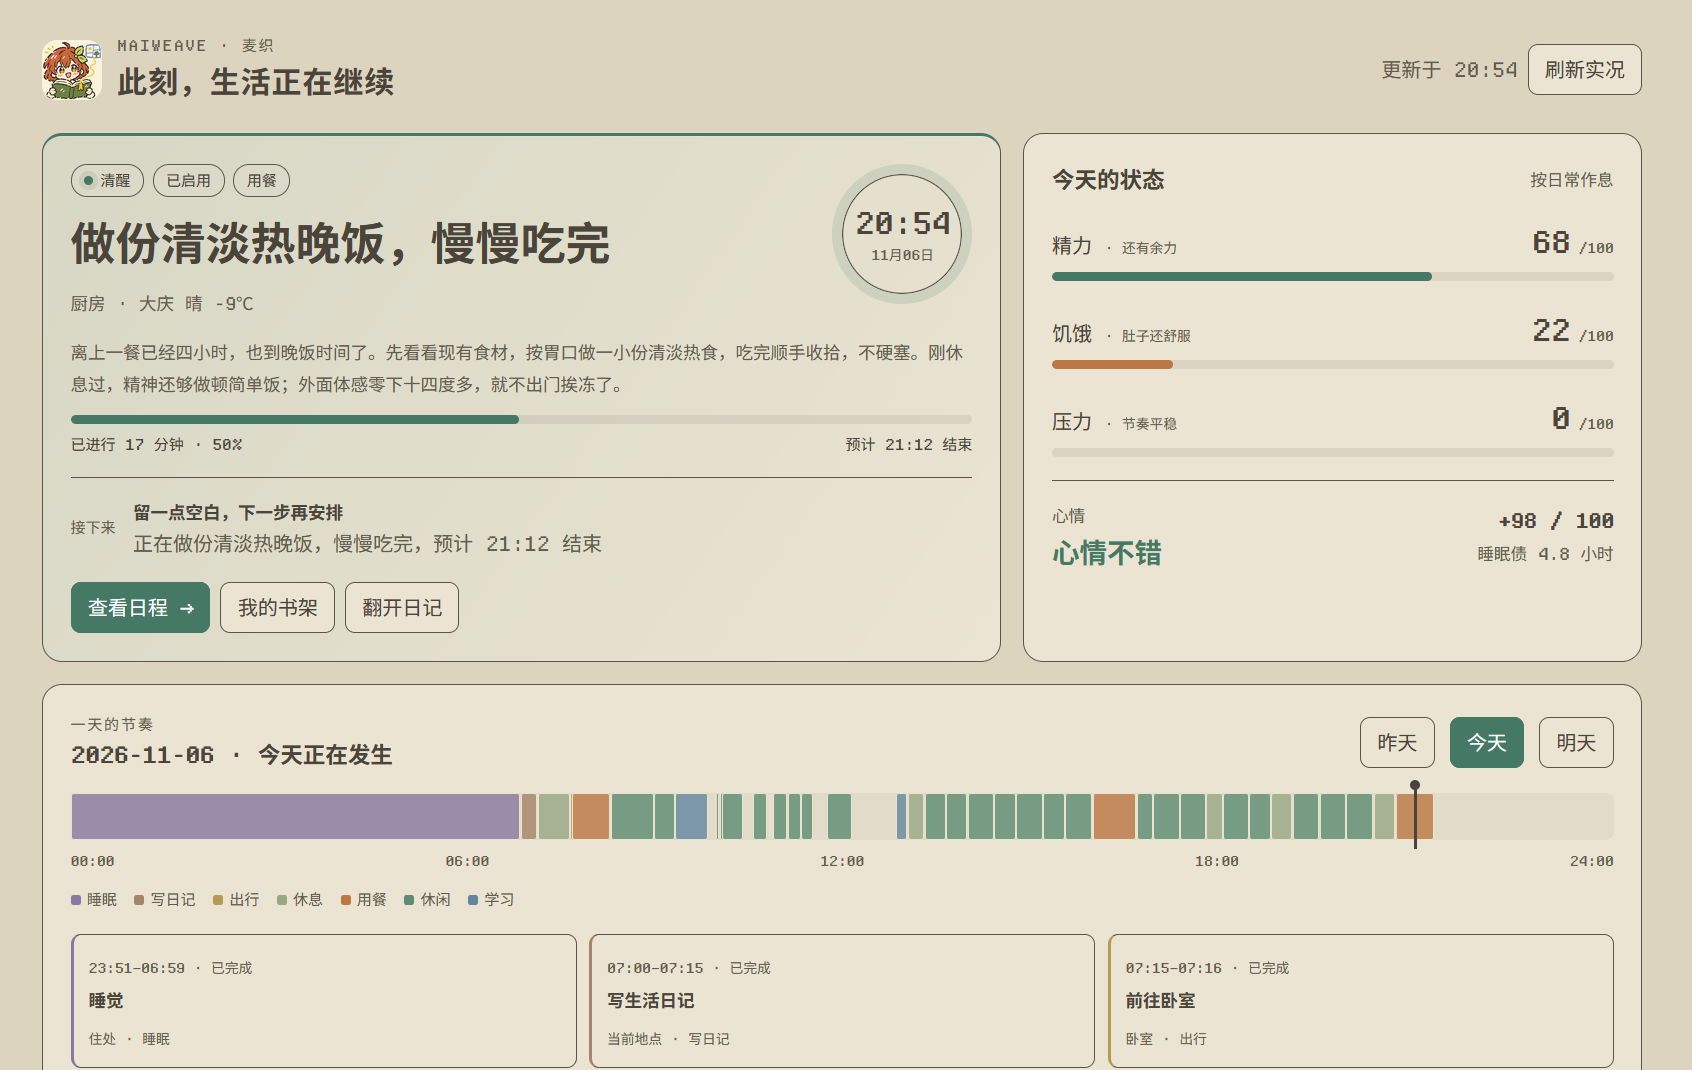
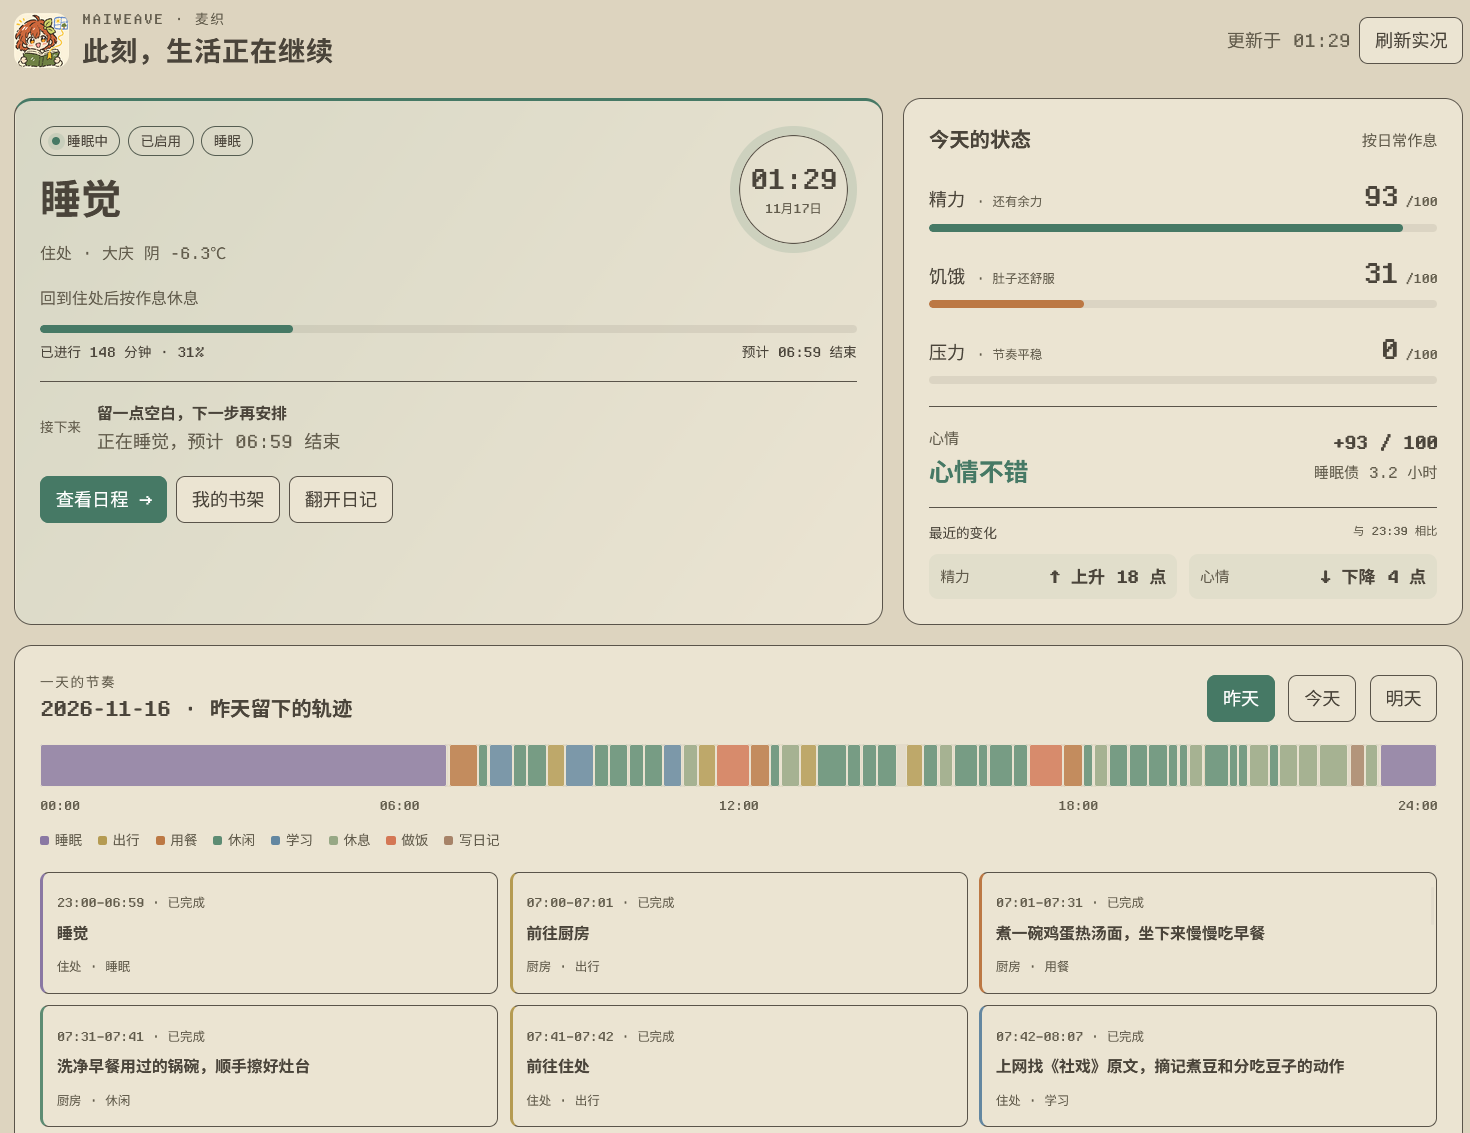
docs: 更新生活与图文展示，整理 README 和图片使用说明

diff --git a/docs/架构与接口.md b/docs/架构与接口.md
@@ -130,3 +130,5 @@ NapCat 网页发布使用 `https://up.qzone.qq.com/cgi-bin/upload/cgi_upload_ima
 角色与图片页面的 `ui_save_character(content)` 接收 JSON 字符串，保存角色外貌、穿着、参考图开关与直链、两类画风和负面提示词。字段沿用原有 `diary` 字段名，读取接口 `ui_character_image` 的 `settings` 返回当前值，`draft` 返回生成的外貌与穿着草稿。业务设置保存在现有生活记录的 `image_settings/character`，首次加载从旧配置迁入；模型连接仍由 MaiBot 配置管理。
 
 图片描述的结构化结果包含 `selfie`，表示前置自拍，保存为 `image_selfie`。自拍同时视为人物入镜，按角色设置使用角色卡与参考图。聊天和空间沿用现有描述调用完成判断；只对前置自拍追加独立构图提示，固定生图测试沿用物件场景。手动改写画面描述时清除上次的自拍标记，再按当前流程生成。
+
+「角色与图片」中的试画复用 `ui_test_image(scene, prompt)`，场景支持自拍和物件近景，场景描述最多 1000 字符。试画使用聊天画风，自拍沿用角色卡和参考图设置；不传场景时使用配置测试的茶杯与绿植画面。`ui_character_trial` 返回最近一次结果、模型、日期、用时、请求超时与图片预览。两种测试共用 `image_test/latest`，按现有图片保留设置清理。

diff --git a/docs/README.md b/docs/README.md
@@ -5,6 +5,7 @@
 | 你想了解什么 | 从这里看 |
 | --- | --- |
 | 安排活动、读书、设置生日或收到主动消息 | [使用手册](使用手册.md) |
+| 发生活图片、设置角色参考图、先试画一张 | [图片使用说明](使用手册.md#聊天里看看麦麦做了什么) · [图片服务设置](配置指南.md#空间随笔与聊天图片) |
 | 配置项在哪里、默认值是多少、模型怎么选 | [配置指南](配置指南.md) |
 | 日程与经历有什么区别、哪些内容会进入记忆、数据怎么保存 | [功能与数据说明](架构与接口.md) |
 | 在其他插件中读取生活状态与交流判断 | [只读状态 API](只读状态API.md) |

diff --git a/docs/使用手册.md b/docs/使用手册.md
@@ -318,6 +318,7 @@
 | 书架与阅读 | 上传和管理书籍、安排阅读、查看进度与笔记 |
 | 人物与纪念日 | 资料与日期自动回填，公历／农历换算、倒计时和提醒开关 |
 | 日记与梦境 | 阅读生活日记、安排写作、查看睡眠与梦境，编辑和发布空间随笔 |
+| 角色与图片 | 设置外貌与画风、上传参考图，试画自拍或物件近景并查看生成结果 |
 | 模型用量 | 今天、近 7 天、近 30 天的用量、功能分布、趋势和最近调用 |
 
 ## 数据与备份
